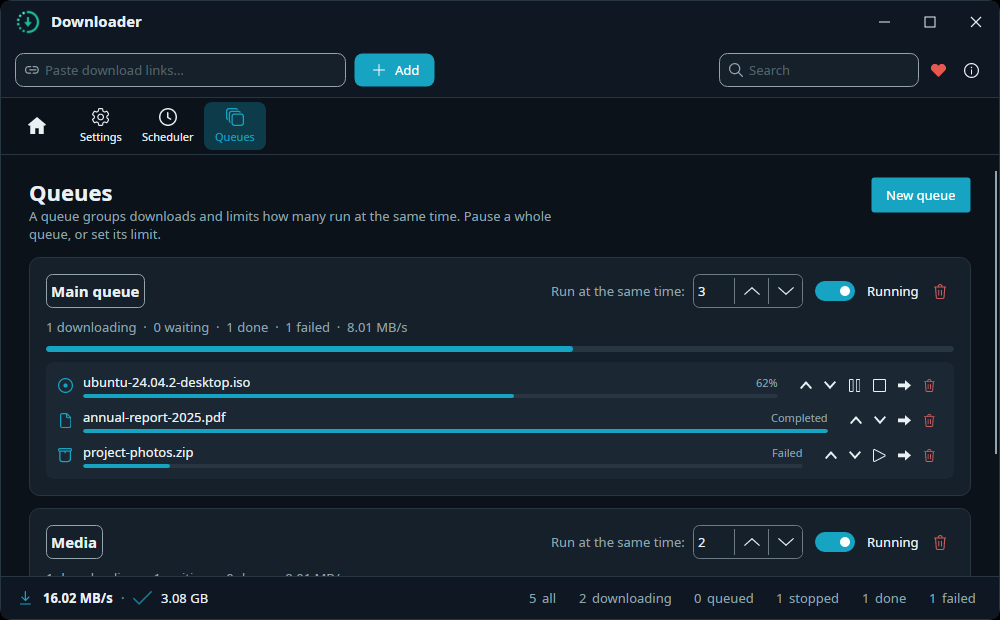
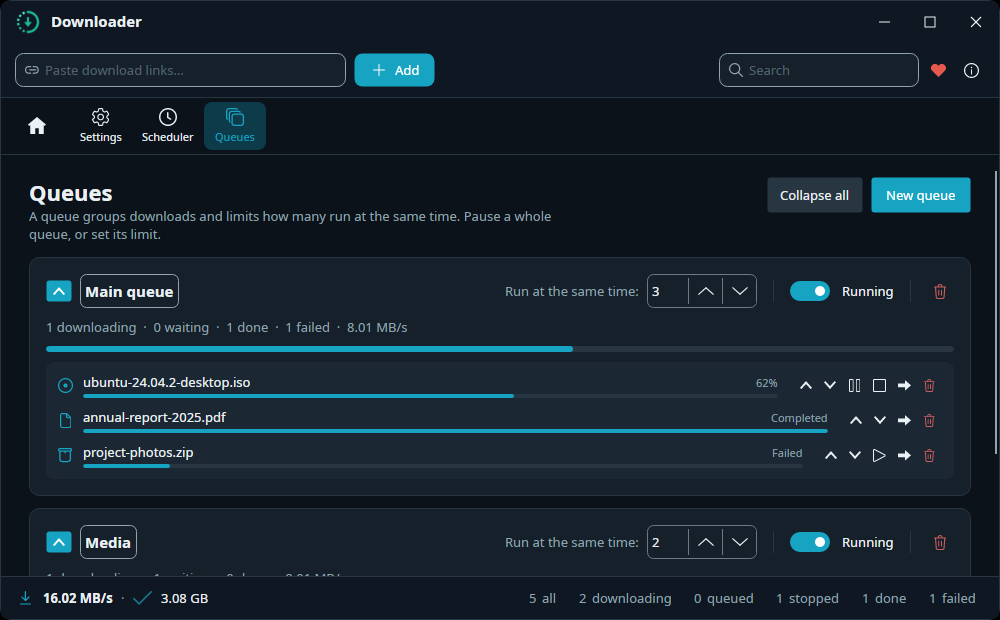
feat: collapsible queue cards + clearer queue-header toolbar (tasks #8, #10)
Task #10: each queue card now folds via a chevron toggle (header, stats and
run/pause stay visible; only the item list hides), and a "Collapse all"
toolbar toggle folds/unfolds every card — with 10 queues of 100+ items the
target queue is reachable without scrolling past hundreds of rows.
QueueRowViewModel.IsExpanded (default true) + QueuesViewModel.AllCollapsed
(tracks the set, two-way from the toolbar toggle). In-session only.

Task #8: the card header's controls are grouped by function with real
spacing and thin dividers — chevron | name | cap stepper (with its label) |
divider | run toggle | divider | delete — so clickable elements read at a
glance instead of one tight run of text and controls.

i18n: Queues_CollapseAll(_Tip)/Queues_CollapseTip in all 16 packs.
Queues screenshots regenerated + verified. TDD red-first collapse test.
429/429 green.

Claude-Session: https://claude.ai/code/session_01GpEAzmp4bQ5LDSW5ucuXk7

diff --git a/src/Downloader.Desktop/ViewModels/QueuesViewModel.cs b/src/Downloader.Desktop/ViewModels/QueuesViewModel.cs
@@ -67,6 +67,23 @@ public class QueuesViewModel : ViewModelBase
     public IEnumerable<DownloadQueue> QueuesOtherThan(QueueRowViewModel self) =>
         Queues.Where(r => !ReferenceEquals(r, self)).Select(r => r.Queue).ToList();
 
+    /// <summary>Toolbar collapse/expand-all (#10): true when every queue card is collapsed. Setting it
+    /// folds/unfolds all cards, so a user with many long queues can jump to the one they want.
+    /// In-session only (not persisted), like the Settings sections.</summary>
+    public bool AllCollapsed
+    {
+        get => Queues.Count > 0 && Queues.All(q => !q.IsExpanded);
+        set
+        {
+            foreach (var row in Queues)
+                row.IsExpanded = !value;
+            this.RaisePropertyChanged();
+        }
+    }
+
+    /// <summary>Called by rows when their own expander toggles, so the toolbar toggle tracks the set.</summary>
+    internal void RaiseAllCollapsedChanged() => this.RaisePropertyChanged(nameof(AllCollapsed));
+
     /// <summary>When the set of queues changes, rebuild each card's item list so move-targets stay current.</summary>
     private void RaiseQueuesChanged()
     {
@@ -85,6 +102,20 @@ public class QueueRowViewModel : ViewModelBase
     public DownloadQueue Queue { get; }
     public ObservableCollection<QueueItemViewModel> Items { get; } = new();
     public ICommand RemoveCommand { get; }
+
+    private bool _isExpanded = true;
+
+    /// <summary>Whether this card's item list is unfolded (#10). The header (name, stats, toggle,
+    /// cap) stays visible either way; collapsing hides only the list. Default expanded.</summary>
+    public bool IsExpanded
+    {
+        get => _isExpanded;
+        set
+        {
+            this.RaiseAndSetIfChanged(ref _isExpanded, value);
+            _parent?.RaiseAllCollapsedChanged();
+        }
+    }
 
     public QueueRowViewModel(DownloadQueue queue, IDownloadManager manager, QueuesViewModel parent, Config config = null)
     {

diff --git a/src/Downloader.Desktop.Tests/UI/AppTests.cs b/src/Downloader.Desktop.Tests/UI/AppTests.cs
@@ -216,6 +216,39 @@ public class AppTests
     }
 
     [AvaloniaFact(Timeout = TestTimeouts.DefaultMs)]
+    public void Queue_cards_collapse_and_expand_individually_and_all_at_once()
+    {
+        var manager = new DownloadManager();
+        var config = Config.New();
+        manager.Initialize(config);
+        manager.AddQueue("Media");
+        manager.AddQueue("Docs");
+
+        var page = new QueuesViewModel(config, manager);
+        Assert.Equal(3, page.Queues.Count);
+        Assert.All(page.Queues, q => Assert.True(q.IsExpanded)); // expanded by default
+
+        // One row toggles independently and the "all collapsed" flag follows the whole set.
+        page.Queues[0].IsExpanded = false;
+        Assert.False(page.Queues[0].IsExpanded);
+        Assert.True(page.Queues[1].IsExpanded);
+        Assert.False(page.AllCollapsed);
+
+        page.AllCollapsed = true;   // toolbar toggle → collapse all
+        Assert.All(page.Queues, q => Assert.False(q.IsExpanded));
+        Assert.True(page.AllCollapsed);
+
+        page.AllCollapsed = false;  // toolbar toggle → expand all
+        Assert.All(page.Queues, q => Assert.True(q.IsExpanded));
+        Assert.False(page.AllCollapsed);
+
+        // Collapsing every row by hand flips the aggregate flag too.
+        foreach (var q in page.Queues)
+            q.IsExpanded = false;
+        Assert.True(page.AllCollapsed);
+    }
+
+    [AvaloniaFact(Timeout = TestTimeouts.DefaultMs)]
     public void Removing_a_queue_reassigns_its_items()
     {
         var manager = new DownloadManager();

diff --git a/openspec/changes/queues-page-ux/tasks.md b/openspec/changes/queues-page-ux/tasks.md
@@ -4,11 +4,11 @@ Each task is TDD: failing test first, make it pass, keep build + full `dotnet te
 
 ## 1. Collapsible queues + collapse/expand-all (task #10)
 
-- [ ] 1.1 Write tests: `QueueRowViewModel.IsExpanded` defaults true; `QueuesViewModel.CollapseAll()` sets every row false, `ExpandAll()` sets every row true; a single row toggles independently.
-- [ ] 1.2 Add `IsExpanded` + `CollapseAll`/`ExpandAll`; wrap each queue card body in an `Expander` (stats in the header, item list in content); add the toolbar collapse/expand-all toggle. Make 1.1 pass.
-- [ ] 1.3 i18n labels/tooltips in all 16 packs. Build + full tests green; regenerate Queues screenshot; commit/push; wait for green CI.
+- [x] 1.1 Write tests: `QueueRowViewModel.IsExpanded` defaults true; `QueuesViewModel.CollapseAll()` sets every row false, `ExpandAll()` sets every row true; a single row toggles independently.
+- [x] 1.2 Add `IsExpanded` + `CollapseAll`/`ExpandAll`; wrap each queue card body in an `Expander` (stats in the header, item list in content); add the toolbar collapse/expand-all toggle. Make 1.1 pass.
+- [x] 1.3 i18n labels/tooltips in all 16 packs. Build + full tests green; regenerate Queues screenshot; commit/push; wait for green CI.
 
 ## 2. Toolbar affordance refactor (task #8)
 
-- [ ] 2.1 Regroup the queue-header controls (spacing/dividers, button chrome for actions, labels attached to controls) in `QueuesView.axaml`.
-- [ ] 2.2 Regenerate the Queues screenshot and verify the clearer grouping visually. Build + full tests green; commit/push; wait for green CI.
+- [x] 2.1 Regroup the queue-header controls (spacing/dividers, button chrome for actions, labels attached to controls) in `QueuesView.axaml`.
+- [x] 2.2 Regenerate the Queues screenshot and verify the clearer grouping visually. Build + full tests green; commit/push; wait for green CI.
